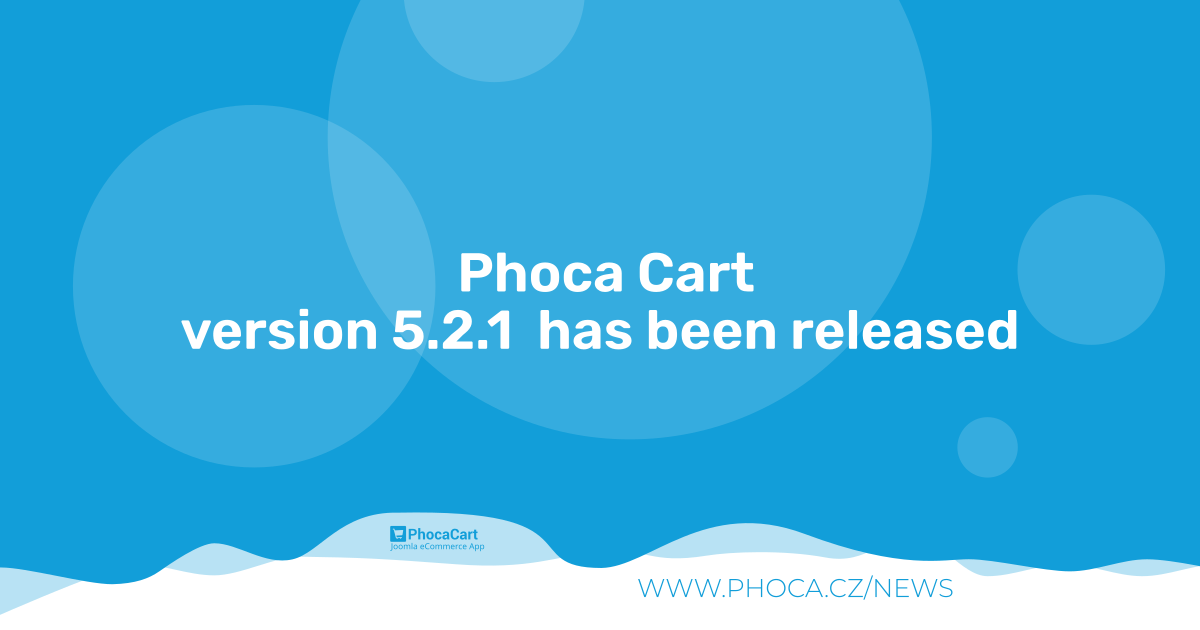
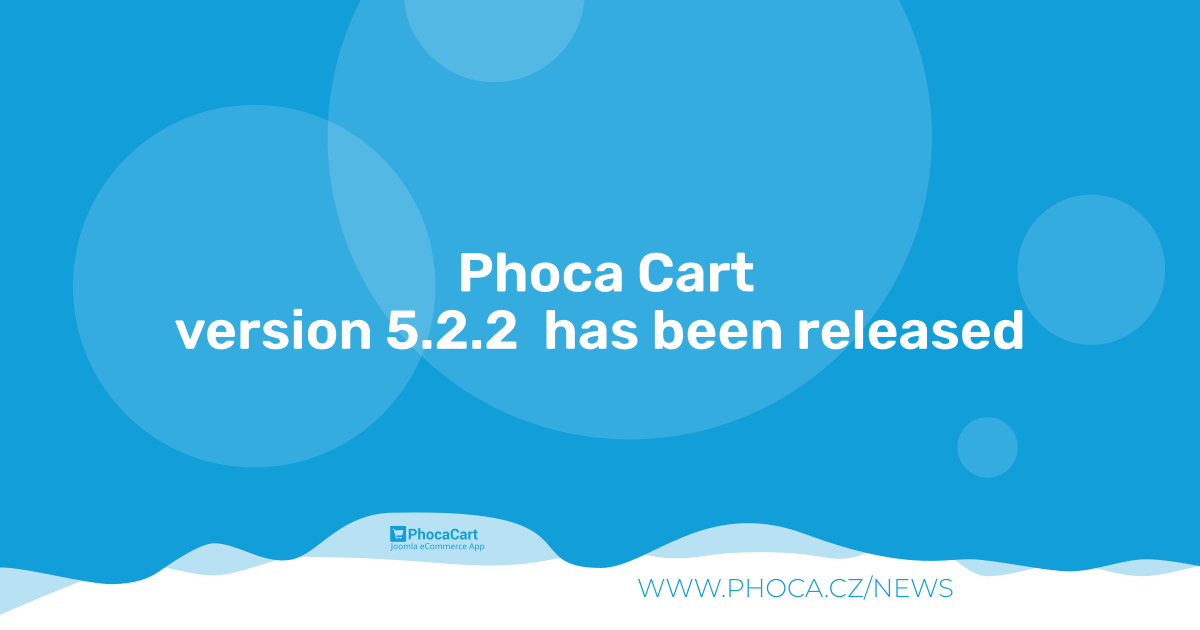
5.2.2

Changed region(s): [[0.1233, 0.4825, 0.8633, 0.573]]

diff --git a/media/css/administrator/theme-dark.css b/media/css/administrator/theme-dark.css
@@ -319,4 +319,11 @@
     .plupload_filelist li {
         background: transparent;
     }
+
+    .input-group-text.bg-light {
+        background-color: #333 !important;
+    }
+    .btn-outline-info {
+        background-color: #999;
+    }
 }

diff --git a/admin/libraries/phocacart/related/related.php b/admin/libraries/phocacart/related/related.php
@@ -10,7 +10,11 @@
  */
 defined('_JEXEC') or die();
 use Joomla\CMS\Factory;
+use Joomla\CMS\Form\Form;
+use Joomla\CMS\Language\Text;
 use Joomla\Database\DatabaseInterface;
+use Joomla\Utilities\ArrayHelper;
+use Phoca\PhocaCart\Container\Container;
 use Phoca\PhocaCart\ContentType\ContentTypeHelper;
 use Phoca\PhocaCart\I18n\I18nHelper;
 
@@ -19,7 +23,7 @@ class PhocacartRelated
 	public static function storeRelatedItemsById($relatedString, $productId)
     {
     	if ((int)$productId > 0) {
-			$db =Factory::getDBO();
+            $db = Container::getDbo();
 			$query = ' DELETE '
 					.' FROM #__phocacart_product_related'
 					. ' WHERE product_a = '. (int)$productId;
@@ -50,8 +54,7 @@ class PhocacartRelated
 
     public static function copyRelatedItems(int $sourceProductId, int $destProductId): void
     {
-        /** @var DatabaseInterface $db */
-        $db = Factory::getContainer()->get(DatabaseInterface::class);
+        $db = Container::getDbo();
         $query = 'INSERT INTO #__phocacart_product_related(related_type, product_a, product_b)'
             . 'SELECT related_type, ' . $destProductId . ', product_b FROM #__phocacart_product_related WHERE product_a = ' . $sourceProductId;
         $db->setQuery($query);
@@ -64,8 +67,7 @@ class PhocacartRelated
             return;
         }
 
-        /** @var DatabaseInterface $db */
-        $db = Factory::getContainer()->get(DatabaseInterface::class);
+        $db = Container::getDbo();
 
         $query = 'DELETE FROM #__phocacart_product_related WHERE product_a = '. $productId;
         $db->setQuery($query);
@@ -77,6 +79,10 @@ class PhocacartRelated
             $related = array_values($related);
             $related = array_unique($related, SORT_REGULAR);
             foreach ($related as $index => $relatedItem) {
+                if ($relatedItem['id'] == $productId) {
+                    continue;
+                }
+
                 $values[] = '(' . $productId . ', ' . $relatedItem['id'] . ', ' . $relatedItem['related_type'] . ', ' . $index . ')';
             }
 
@@ -85,6 +91,58 @@ class PhocacartRelated
             $db->setQuery($query);
             $db->execute();
         }
+    }
+
+    public static function addRelatedItems(int $productId, int $relatedType, array $related): void
+    {
+        if (!$productId) {
+            return;
+        }
+
+        if (!$related) {
+            return;
+        }
+        ArrayHelper::toInteger($related);
+        $related = array_unique($related, SORT_REGULAR);
+
+        $db = Container::getDbo();
+
+        $newRelated = $db->setQuery('SELECT product_b AS id, related_type FROM #__phocacart_product_related WHERE product_a = ' . $productId . ' ORDER BY ordering')->loadAssocList('id');
+        foreach ($related as $relatedItem) {
+            if ($relatedItem == $productId) {
+                continue;
+            }
+
+            if (array_key_exists($relatedItem, $newRelated)) {
+                $newRelated[$relatedItem]['related_type'] = $relatedType;
+            } else {
+                $newRelated[] = ['id' => $relatedItem, 'related_type' => $relatedType];
+            }
+        }
+
+        self::storeRelatedItems($productId, $newRelated);
+    }
+
+    public static function removeRelatedItems(int $productId, int $relatedType, array $related): void
+    {
+        if (!$productId) {
+            return;
+        }
+
+        if (!$related) {
+            return;
+        }
+        ArrayHelper::toInteger($related);
+
+        $db = Container::getDbo();
+
+        $related = array_unique($related, SORT_REGULAR);
+
+        $query = 'DELETE FROM #__phocacart_product_related WHERE product_a = ' . $productId .
+            ' AND related_type = ' . $relatedType .
+            ' AND product_b IN (' . implode(',', $related) . ')';
+        $db->setQuery($query);
+        $db->execute();
     }
 
 	/*
@@ -276,4 +334,47 @@ class PhocacartRelated
 		}
 		return true;
 	}
+
+    public static function prepareBatchForm(Form $form)
+    {
+        $relatedTypes = ContentTypeHelper::getContentTypes(ContentTypeHelper::ProductRelated);
+
+        if (!$relatedTypes) {
+            return true;
+        }
+
+        // Creating the dom
+        $xml        = new \DOMDocument('1.0', 'UTF-8');
+        $fieldsNode = $xml->appendChild(new \DOMElement('form'))->appendChild(new \DOMElement('fields'));
+        $fieldsNode->setAttribute('name', 'batch');
+        $fieldsNode = $fieldsNode->appendChild(new \DOMElement('fields'));
+        $fieldsNode->setAttribute('name', 'related');
+        $fieldset = $fieldsNode->appendChild(new \DOMElement('fieldset'));
+        $fieldset->setAttribute('name', 'params');
+
+        foreach ($relatedTypes as $relatedType) {
+            try {
+                $node = $fieldset->appendChild(new \DOMElement('field'));
+                $node->setAttribute('name', 'add_' . $relatedType->id);
+                $node->setAttribute('type', 'PhocaCartItem');
+                $node->setAttribute('label', Text::sprintf('COM_PHOCACART_BATCH_RELATED_ADD', Text::_($relatedType->title)));
+                $node->setAttribute('showon', '_related:1');
+                $node->setAttribute('multiple', 'true');
+
+                $node = $fieldset->appendChild(new \DOMElement('field'));
+                $node->setAttribute('name', 'remove_' . $relatedType->id);
+                $node->setAttribute('type', 'PhocaCartItem');
+                $node->setAttribute('label', Text::sprintf('COM_PHOCACART_BATCH_RELATED_REMOVE', Text::_($relatedType->title)));
+                $node->setAttribute('showon', '_related:1');
+                $node->setAttribute('multiple', 'true');
+            }
+            catch (\Exception $e) {
+                Factory::getApplication()->enqueueMessage($e->getMessage(), 'error');
+            }
+        }
+
+        $form->load($xml->saveXML());
+
+        return true;
+    }
 }

diff --git a/admin/models/phocacartitem.php b/admin/models/phocacartitem.php
@@ -84,6 +84,7 @@ class PhocaCartCpModelPhocaCartItem extends AdminModel
         'pcf'                       => 'batchFeedOptions',
         'com_fields'                => 'batchCustomFields',
         'parameters'                => 'batchParameters',
+        'related'                   => 'batchRelated',
     ];
 
    // public function __construct($config = [], MVCFactoryInterface $factory = null, FormFactoryInterface $formFactory = null)
@@ -2334,5 +2335,53 @@ class PhocaCartCpModelPhocaCartItem extends AdminModel
 
         return true;
     }
+
+    protected function batchRelated($newValues, $pks, $contexts): bool
+    {
+        $this->initBatch();
+
+        foreach ($pks as $pk) {
+            if ($this->user->authorise('core.edit', $contexts[$pk])) {
+                $this->table->reset();
+                $this->table->load($pk);
+
+                $event = new BeforeBatchEvent(
+                    $this->event_before_batch,
+                    ['src' => $this->table, 'type' => 'related']
+                );
+                $this->dispatchEvent($event);
+
+                // Check the row.
+                if (!$this->table->check()) {
+                    $this->setError($this->table->getError());
+
+                    return false;
+                }
+
+                foreach ($newValues as $name => $relatedProducts) {
+                    if ($name == '_related') {
+                        continue;
+                    }
+
+                    list($operation, $relatedType) = explode('_', $name);
+                    if ($operation == 'add') {
+                        PhocacartRelated::addRelatedItems($pk, $relatedType, $relatedProducts);
+                    } else {
+                        PhocacartRelated::removeRelatedItems($pk, $relatedType, $relatedProducts);
+                    }
+                }
+            } else {
+                $this->setError(Text::_('JLIB_APPLICATION_ERROR_BATCH_CANNOT_EDIT'));
+
+                return false;
+            }
+        }
+
+        // Clean the cache
+        $this->cleanCache();
+
+        return true;
+    }
+
 }
 

diff --git a/site/views/item/tmpl/default.php b/site/views/item/tmpl/default.php
@@ -861,6 +861,8 @@ if (!empty($x) && isset($x->id) && (int)$x->id > 0) {
                 continue;
             }
 
+
+
             $tabAnchor = $this->s['c']['class-type'] == 'uikit' ? '#' : '#phrelated-' . $relatedType->id ;
             $tabLiO .= '<li class="' . $this->s['c']['nav-item'] . ' ' . $activeTab . '"><a href="'. $tabAnchor . '" data-bs-toggle="tab" class="' . $this->s['c']['nav-link'] . ' ' . $active . '">' . Text::_($relatedType->title) . '</a></li>';
 
@@ -869,7 +871,10 @@ if (!empty($x) && isset($x->id) && (int)$x->id > 0) {
             $tabO .= '<div class="' . $this->s['c']['row'] . '">';
             foreach ($related as $k => $v) {
 
-
+                // This should not happen but if the product is the same like related, don't display it.
+                if (isset($x->id) && isset($v->id) && (int)$x->id == (int)$v->id) {
+                    continue;
+                }
                 $tabO .= '<div class="' . $this->s['c']['row-item'] . ' ' . $this->s['c']['col.xs12.sm3.md3'] . '">';
                 $tabO .= '<div class="ph-item-box grid ph-item-thumbnail-related">';
 

diff --git a/admin/layouts/phocacart/form/field/item.php b/admin/layouts/phocacart/form/field/item.php
@@ -69,7 +69,7 @@ if ($readonly || $disabled) {
 
 $attr2  = '';
 $attr2 .= !empty($class) ? ' class="' . $class . '"' : '';
-$attr2 .= ' placeholder="' . $this->escape($hint ?: Text::_('JGLOBAL_TYPE_OR_SELECT_SOME_TAGS')) . '" ';
+$attr2 .= ' placeholder="' . $this->escape($hint ?: Text::_('COM_PHOCACART_TYPE_OR_SELECT_SOME_PRODUCTS')) . '" ';
 $attr2 .= $dataAttribute;
 
 $attr2 .= ' remote-search';

diff --git a/admin/models/phocacartitems.php b/admin/models/phocacartitems.php
@@ -362,6 +362,7 @@ class PhocaCartCpModelPhocaCartItems extends ListModel
 
         PhocacartFields::prepareBatchForm('com_phocacart.phocacartitem', $form);
         PhocacartParameter::prepareBatchForm($form);
+        PhocacartRelated::prepareBatchForm($form);
 
         Dispatcher::dispatch(new Event\Feed\BatchForm('com_phocacart.phocacartitem', $form));
 

diff --git a/admin/libraries/phocacart/log/log.php b/admin/libraries/phocacart/log/log.php
@@ -63,6 +63,8 @@ class PhocacartLog
 			$db				= Factory::getDBO();
 			$ip 			= $_SERVER["REMOTE_ADDR"];
 			$incoming_page	= htmlspecialchars($uri->toString());
+			$incoming_page  = substr($incoming_page, 0, 2048);
+
 			$userid			= 0;
 			if (isset($user->id) && (int)$user->id > 0) {
 				$userid = $user->id;

diff --git a/README.MD b/README.MD
@@ -132,7 +132,7 @@ Phoca Cart is e-commerce extension - powerful shopping cart for Joomla! CMS. Pho
 
 ## Version (Joomla! 5.x)
 
-5.2.1
+5.2.2
 
 
 
